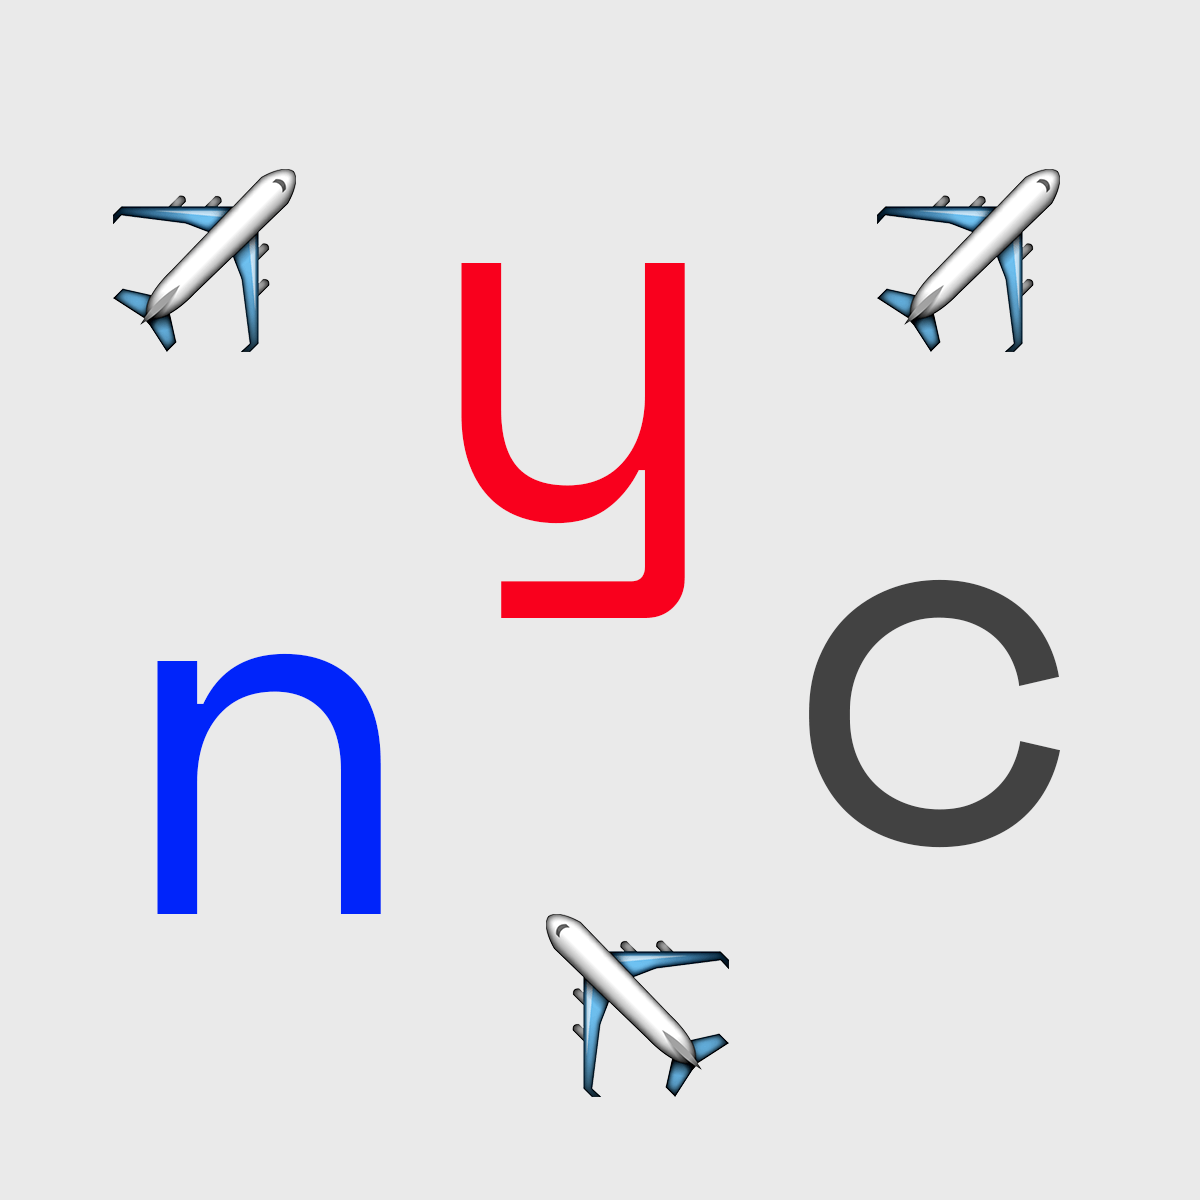
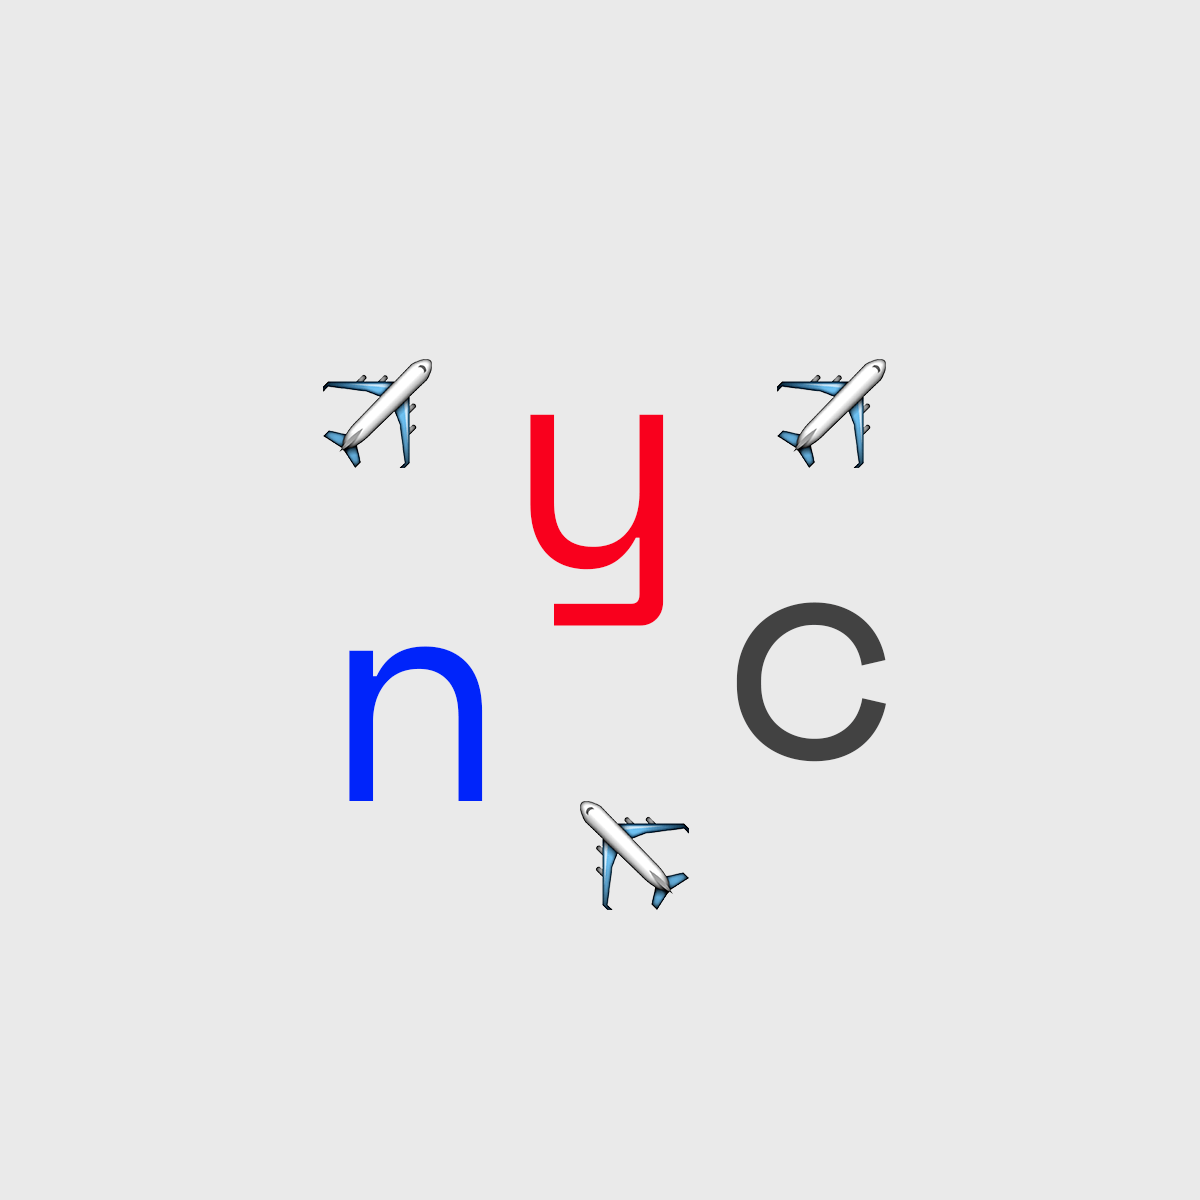
nyc updated og omg

diff --git a/nyc/index.html b/nyc/index.html
@@ -6,7 +6,7 @@
   <link href="https://fonts.googleapis.com/css?family=Space+Mono" rel="stylesheet">
   <script src="script.js" charset="utf-8"></script>
   <meta name="viewport" content="width=device-width, initial-scale=1.0, maximum-scale=1.0" />
-  <meta property="og:image" content="http://i.imgur.com/iZVLN0a.png" />
+  <meta property="og:image" content="http://i.imgur.com/ylfpjLJ.png" />
   <meta property="og:title" content="nwyrk nwyrk" />
   <meta name="author" content="Toms Rits">
 
